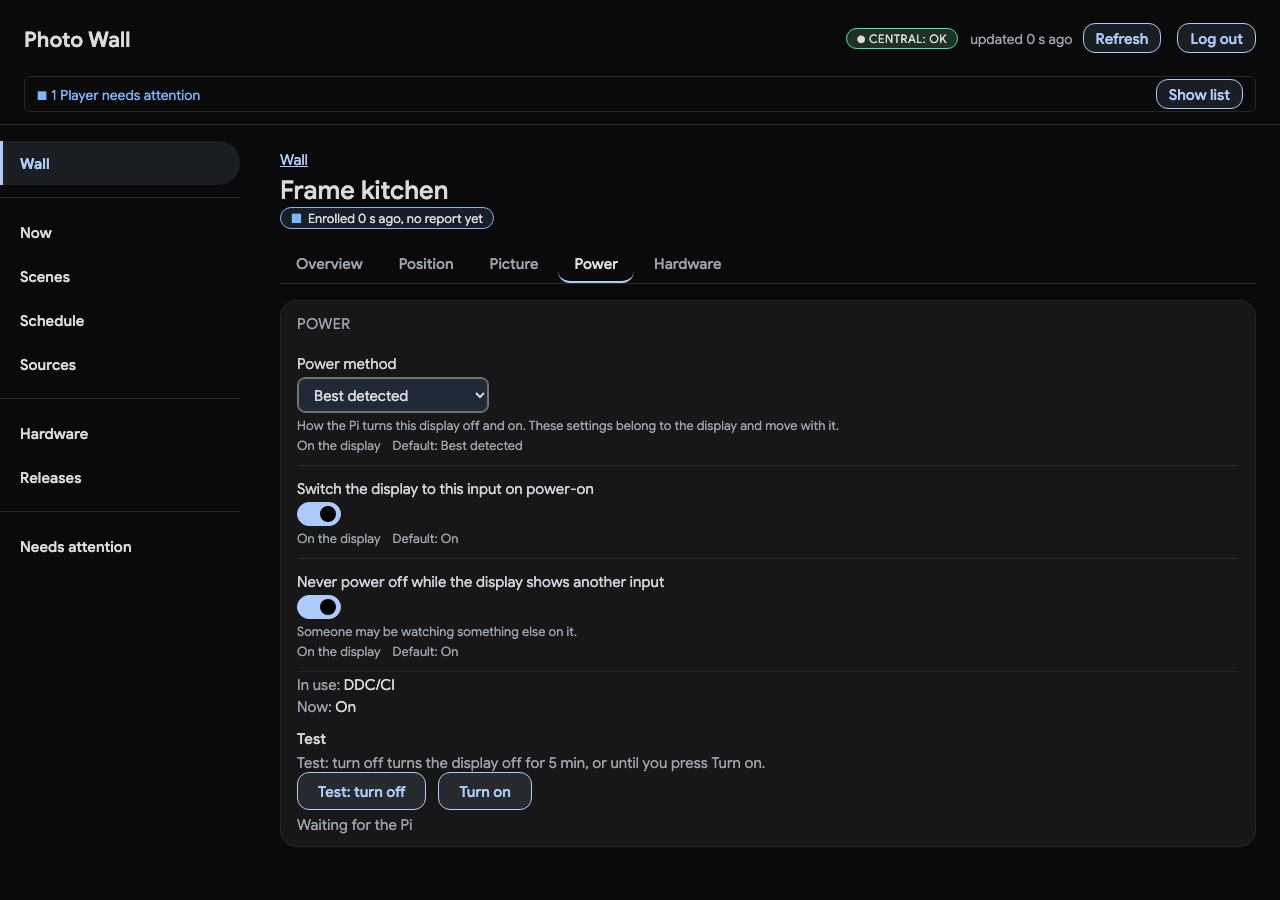
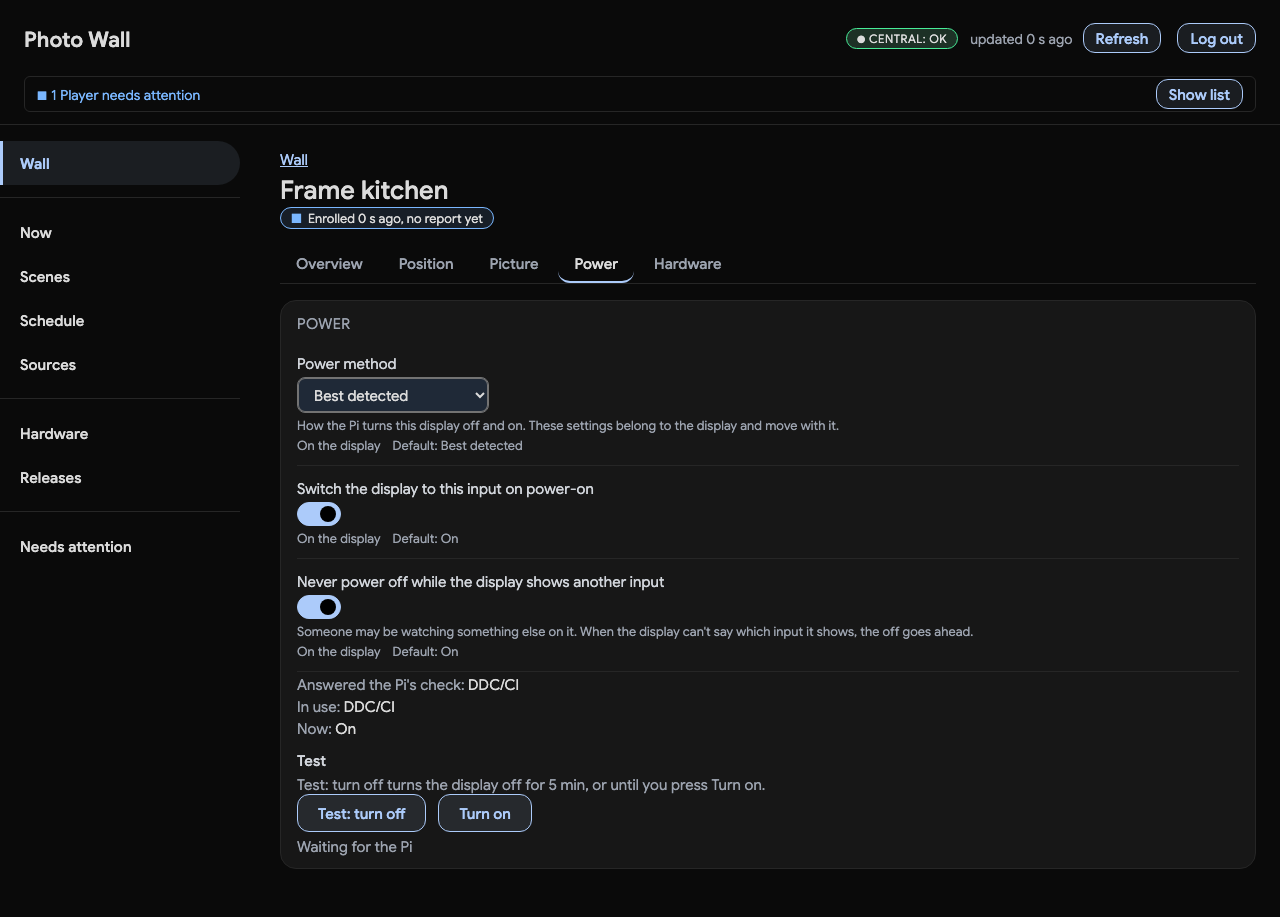
docs(display): re-take the 1b after screenshots (dark and light)
The fix pass (38bf56d) changed the Power tab's wording after the shots in
docs/evidence/display-1b were taken, and Turn on now ends the test. Every
after-* PNG is re-taken by tests/browser/capture_display_1b_evidence.py -k after;
the before shots (main) stay. The capture puts the display-changed Frame on its
own Pi: the same serial on a second port of pi-a is shared since E-1B-FIX-3,
so the ready Frame's display read as recognised by make and model.

diff --git a/tests/browser/capture_display_1b_evidence.py b/tests/browser/capture_display_1b_evidence.py
@@ -91,10 +91,13 @@ def test_after_hardware(page, registry, scheme):
     _bind(registry, ready, pi, "HDMI-A-1")
     _report(registry, "pi-a", "HDMI-A-1", SERIAL_DISPLAY)
     _commit_position(registry, ready)
-    _bind(registry, changed, pi, "HDMI-A-2")
-    _report(registry, "pi-a", "HDMI-A-2", SERIAL_DISPLAY)
+    # On its own Pi: the same serial on another port of pi-a would be shared (E-1B-FIX-3), and the
+    # ready Frame's display would read as recognised by make and model.
+    swapped = enroll_pi(registry, "pi-c")
+    _bind(registry, changed, swapped, "HDMI-A-1")
+    _report(registry, "pi-c", "HDMI-A-1", SERIAL_DISPLAY)
     _commit_position(registry, changed)
-    _report(registry, "pi-a", "HDMI-A-2", OTHER_DISPLAY)
+    _report(registry, "pi-c", "HDMI-A-1", OTHER_DISPLAY)
     other = enroll_pi(registry, "pi-b")
     _bind(registry, no_serial, other, "HDMI-A-1")
     _report(registry, "pi-b", "HDMI-A-1", NO_SERIAL)
